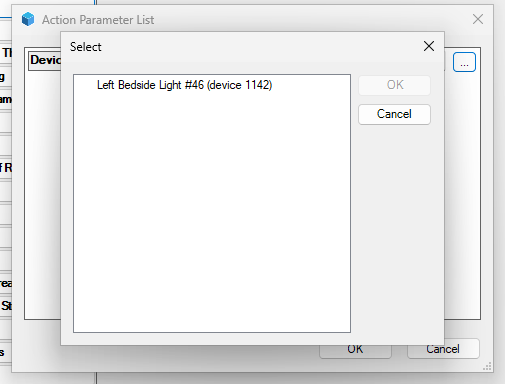
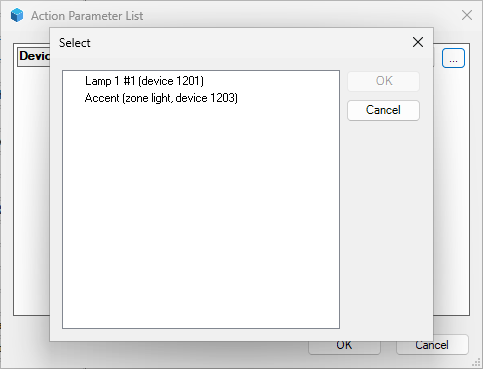
Manual: 21 pictures retaken on release build 329, two new for zone lights, captions and widths to match (#61)
Taken by the Windows session with tools/composer/Shots.ps1 (round 46b) in
the house project with neutral example texts painted in, each checked by
the coordinator. Captions that described older pictures now describe these;
the dialogs' widths are their own 483 px; Add Zone Light and a zone light's
Properties page are placed in chapter 7. bridge-properties, room-mappings
and connections stay the older pictures (held or failed, reasons in
docs/screenshots-plan.md §11). Shots.ps1 gains the Windows session's fixes
(native menu bar, real title and status zones, Enter after an edit, one
font per list).

Changed region(s): [[0.0, 0.0, 1.0, 1.0], [0.7453, 0.2087, 0.8075, 0.2385]]

diff --git a/src/hue_bridge/www/documentation.html b/src/hue_bridge/www/documentation.html
@@ -129,7 +129,7 @@ dd { margin: 2px 0 6px 18px; }
 <li>Do <b>not</b> add a Hue Light or a Hue Scene from the Items pane. The bridge creates them, already connected and linked, when you use its actions. The two drivers only need to be in the project's driver list, which step 2 did.</li>
 </ol>
 
-<img src="img/add-driver-menu.png" width="320" alt="Composer's Driver menu with Add or Update Driver or Agent highlighted">
+<img src="img/add-driver-menu.png" width="296" alt="Composer's Driver menu with Add or Update Driver or Agent highlighted">
 <p class="caption">Composer's <b>Driver</b> menu with <b>Add or Update Driver or Agent&hellip;</b> highlighted: the one route used both for installing and for updating.</p>
 
 <p class="note">(No screenshot of the System Design tree is included: it would show one home's device inventory. Yours shows the Hue Bridge in the room you added it to.)</p>
@@ -240,7 +240,7 @@ dd { margin: 2px 0 6px 18px; }
 </table>
 
 <img src="img/bridge-actions.png" width="700" alt="The Hue Bridge Actions tab">
-<p class="caption">The bridge's <b>Actions</b> tab: the actions in the order of chapter 13's quick reference, <b>Pair Bridge</b> at the top and <b>Forget Pairing</b> at the bottom. The picture was taken on a development build before <b>Add Zone Light</b> and <b>Re-link Zone Light</b> existed: it lacks those two and shows three diagnostics (<b>Connection Test</b>, <b>Reload Credentials</b>, <b>Check CA Pinning</b>) that a release build does not have, so a release build shows 22 buttons, not 23. One click on a button runs it. Actions with choices open a dialog; the rest run at once and report in <b>Last Action</b> or <b>Status</b>.</p>
+<p class="caption">The bridge's <b>Actions</b> tab: the actions in the order of chapter 13's quick reference, <b>Pair Bridge</b> at the top and <b>Forget Pairing</b> at the bottom, 22 buttons in all. One click on a button runs it. Actions with choices open a dialog; the rest run at once and report in <b>Last Action</b> or <b>Status</b>.</p>
 
 <p>Actions that take choices open Composer's <b>Action Parameter List</b> dialog: one row per choice, each with a <b>&hellip;</b> button that opens a <b>Select</b> list, and <b>OK</b> and <b>Cancel</b>. In the Select list, click an entry and then its OK. A row left empty reaches the driver empty: an empty <b>Room</b> in <b>Add Light</b>, <b>Add Zone Light</b> or <b>Add Scene</b> means <code>(mapped room)</code>; any other empty row, <b>Set Room Mapping</b>'s <b>Room</b> included, is refused with a <code>Not &hellip;: pick &hellip;</code> text in <b>Last Action</b> (for example <code>Not added: pick a light first</code> or <code>Not re-linked: pick a device and a light</code>; chapter 12 lists them all). The dialog remembers your previous choices for that action, so always look at every row before clicking OK; a remembered choice is as good as a new one to the driver.</p>
 
@@ -278,10 +278,10 @@ dd { margin: 2px 0 6px 18px; }
 <li><b>Room</b>: <code>(no mapping)</code> first, then every Control4 room as <code>Floor / Room</code>, for example <code>Main Floor / Den</code>. Where two rooms share a name the room's number is appended so you can tell them apart.</li>
 </ul>
 
-<img src="img/set-room-mapping.png" width="505" alt="Set Room Mapping dialog with the Hue Room list open">
+<img src="img/set-room-mapping.png" width="483" alt="Set Room Mapping dialog with the Hue Room list open">
 <p class="caption">The <b>Set Room Mapping</b> dialog with the <b>Hue Room</b> list open: rooms first, zones after them, each with its current mapping after the arrow.</p>
 
-<img src="img/set-room-mapping-room.png" width="505" alt="Set Room Mapping dialog with the Room list open">
+<img src="img/set-room-mapping-room.png" width="483" alt="Set Room Mapping dialog with the Room list open">
 <p class="caption">The same dialog with the <b>Room</b> list open: <code>(no mapping)</code> at the top, then the project's rooms as <code>Floor / Room</code>.</p>
 
 <p>Example: pick <code>Garden &rarr; (unmapped)</code> and <code>Main Floor / Den</code>, click OK. <b>Last Action</b> reads <code>Mapped Garden &rarr; Den</code> and <b>Room Mappings</b> updates. To remove a mapping, pick the Hue room and <code>(no mapping)</code>: <code>Removed the mapping for Accent (zone)</code>, or <code>No mapping for TV Area (zone) to remove</code> when there was none. If you click OK without choosing, Last Action says <code>Not mapped: pick a Hue room first</code> or <code>Not mapped: pick a Control4 room or (no mapping)</code>; a room deleted since the list was built gives <code>Not mapped: Control4 room 31 does not exist</code>. Before the bridge has been read, the Hue Room list holds only <code>(no Hue rooms fetched yet; connect the event stream)</code>.</p>
@@ -298,7 +298,7 @@ dd { margin: 2px 0 6px 18px; }
 <p>If you move a light to another Hue room in the Hue app, its <b>Hue Room</b> property follows within seconds; the Control4 device stays where it is, and the next Room Audit lists it until you drag it or decide not to.</p>
 
 <img src="img/room-audit.png" width="647" alt="Last Action after Room Audit">
-<p class="caption"><b>Last Action</b> after a <b>Room Audit</b> with nothing to drag: every checked light is in the room its Hue room maps to (an older build's wording; today it reads <code>All 1 linked light in a mapped Hue room is in the room its Hue room maps to</code>). With differences the row holds one line per light, each ending in the room to drag it to; the driver only reports, you drag.</p>
+<p class="caption"><b>Last Action</b> after a <b>Room Audit</b> with nothing to drag: every checked light is in the room its Hue room maps to. With differences the row holds one line per light, each ending in the room to drag it to; the driver only reports, you drag.</p>
 
 <div class="note"><b>Why the driver never moves a device.</b> Control4 gives drivers no way to move a device between rooms, and a move would also be the kind of surprise this driver avoids: you may well want a Hue light that Hue files under "Kitchen" to live in the Control4 room "Den". The audit is there so you can decide, light by light.</div>
 
@@ -319,10 +319,10 @@ dd { margin: 2px 0 6px 18px; }
 <li><b>Room</b>: <code>(mapped room)</code> first, then every Control4 room as <code>Floor / Room</code>, for example <code>Main Floor / Kitchen</code>. Pick <code>(mapped room)</code>, like any other entry, to use the <b>Room Mappings</b> entry of the light's Hue room; pick a room to put the light there regardless of the mapping.</li>
 </ul>
 
-<img src="img/add-light.png" width="505" alt="Add Light dialog with the Light list open">
+<img src="img/add-light.png" width="483" alt="Add Light dialog with the Light list open">
 <p class="caption">The <b>Add Light</b> dialog with the <b>Light</b> list open: each entry is <code>Name [Hue room] #number</code>; lights deleted from Composer are listed last with the date. The row's inner <b>OK</b> is greyed out until an entry is clicked.</p>
 
-<img src="img/add-light-room.png" width="505" alt="Add Light dialog with the Room list open">
+<img src="img/add-light-room.png" width="483" alt="Add Light dialog with the Room list open">
 <p class="caption">The same dialog with the <b>Room</b> list open: <code>(mapped room)</code> first, then <code>Floor / Room</code> rows.</p>
 
 <p>Click OK. <b>Last Action</b> reads <code>Added Lamp 1 #1 to Living Room (device 1201)</code> and the device appears in that room in the System Design tree within a second. If you pick <code>(mapped room)</code> for a light that has no mapped room then nothing is created and Last Action explains which case it is: <code>Not added: Lamp 6 #6: Hue room Garden not mapped; pick a room, or Set Room Mapping first</code>, <code>Not added: Lamp 7 #7: no Hue room; pick a room, or Set Room Mapping first</code> or <code>Not added: Lamp 6 #6: Hue room Garden mapped to a Control4 room that no longer exists; pick a room, or Set Room Mapping first</code>; pick a room explicitly, or fix the mapping first. A light that already has a device is refused with <code>Not added: Lamp 1 #1 is already imported (device 1201)</code>; an empty choice with <code>Not added: pick a light first</code>; a room deleted since the list was built with <code>Not added: Control4 room 31 no longer exists</code>; a light that left the bridge since the list was built with <code>Not added: light &hellip; is not on the bridge (connect the event stream and try again)</code>.</p>
@@ -352,8 +352,12 @@ dd { margin: 2px 0 6px 18px; }
 <li><b>Group</b>: every zone on the bridge that has no device yet, then every such room, each with the number of lights it holds: <code>Accent (zone, 2 lights)</code>, <code>Living Room (room, 2 lights)</code>. A zone or room whose device you deleted in Composer comes after the others, its entry ending in <code>(deleted from Composer 2026-10-24)</code>; one that holds no lights reads <code>Reading Corner (zone, no lights)</code> and is refused. When every zone and room has a device the list holds only <code>(every zone and room on the bridge is imported)</code>; with no zone or room on the bridge at all, <code>(no zones or rooms on the bridge)</code>. Hue's whole-home group ("all lights") is not offered (chapter 2).</li>
 <li><b>Room</b>: <code>(mapped room)</code> first, then every Control4 room as <code>Floor / Room</code>, exactly as in <b>Add Light</b> (pictured above). <code>(mapped room)</code> uses the <b>Room Mappings</b> entry of that zone or room itself: a Hue room is usually mapped already by <b>Map Rooms By Name</b>; a zone is mapped only if you mapped it with <b>Set Room Mapping</b> (chapter 6).</li>
 </ul>
+<img src="img/add-zone-light.png" width="483" alt="Add Zone Light dialog with the Group list open">
+<p class="caption">The <b>Add Zone Light</b> dialog with the <b>Group</b> list open: the zones first, then the rooms, each with the number of lights it holds.</p>
 <p>Click OK. <b>Last Action</b> reads <code>Added Accent (zone) to Living Room (device 1203)</code> (a room reads, for example, <code>Kitchen (room)</code> in these texts) and the device appears in that room in the System Design tree within a second; choose <b>File</b> &raquo; <b>Refresh Navigators</b> afterwards. If you pick <code>(mapped room)</code> for a zone that is not mapped then nothing is created: <code>Not added: TV Area (zone): Hue room TV Area (zone) not mapped; pick a room, or Set Room Mapping first</code>; pick the room in the dialog, or map the zone first. A zone or room mapped to a Control4 room that has since been deleted is refused as a light would be (<code>mapped to a Control4 room that no longer exists</code>). A zone without lights answers <code>Not added: Reading Corner (zone) has no lights</code>; a remembered choice that already has a device, <code>Not added: Accent (zone) is already imported (device 1203)</code>. The dialog remembers your last choices, as every dialog does: open both lists each time.</p>
 <p><b>Names and properties.</b> A zone light takes the zone's name as it is, <code>Accent</code>. A room light is named <code>Living Room Lights</code>, the room's name with <code>Lights</code> added, so that the Living Room's Lighting page does not list a light called "Living Room". As with lights the name is set once and is then yours; <b>Attention</b> and <b>Adopt Hue Name</b> apply the same rule, so a room light called <code>Living Room Lights</code> is never reported as differing from its Hue name. The device's <b>Status</b> reads <code>Hue zone Accent (2 lights)</code> or <code>Hue room Living Room (2 lights)</code>; its <b>Hue Light ID</b> <code>zone #1 (5e6f7a8b&hellip;)</code>, the zone's number on the bridge and the start of its Hue identity; <b>Hue Name</b> the zone's or room's name; <b>Model</b> <code>Hue zone (2 lights)</code>; <b>Hue Room</b> the zone's own label, <code>Accent (zone)</code>, or the room's name; <b>Online</b> <code>Online</code>. Composer shows the device's driver as Hue Light, with the Hue Light icon.</p>
+<img src="img/zone-light-properties.png" width="700" alt="A zone light's Properties page">
+<p class="caption">The Properties page of a zone light for the zone Accent: <b>Status</b> <code>Hue zone Accent (2 lights)</code>, <b>Hue Light ID</b> <code>zone #1 (5e6f7a8b&hellip;)</code>, <b>Model</b> <code>Hue zone (2 lights)</code> and <b>Hue Room</b> <code>Accent (zone)</code>.</p>
 <p><b>What the tile does.</b> The zone light is on while any lamp of the zone is lit, and its slider shows the brightness of the lit lamps as Hue reports it, their average in whole percents; 0 % while all are off.</p>
 <ul>
 <li><b>ON</b> ("Turn On" in programming, a tap on the tile, a tap on the top keypad button while the On preset is at its default) turns every lamp on at 100 %, exactly as on a Hue Light (chapter 11); the lamps' own last levels are not restored (the Hue app does that).</li>
@@ -397,10 +401,10 @@ dd { margin: 2px 0 6px 18px; }
 <li>Click OK. <b>Last Action</b> reads <code>Re-linked device 1213 (was Lamp 5 #5) to Lamp 5 [Bedroom] #9</code>. The device keeps its name, room, connections and programming; its Status, Hue Light ID and capabilities now describe the new light and its tile works again. If the new light is named differently in Hue, <b>Attention</b> mentions the name difference (8.2). If the new light can do less than the old one (a white light in place of a colour one) the colour controls disappear from the tile, and programming that sets a colour on it does nothing.</li>
 </ol>
 
-<img src="img/relink-device.png" width="505" alt="Re-link Device To Light dialog with the Device list open">
+<img src="img/relink-device.png" width="483" alt="Re-link Device To Light dialog with the Device list open">
 <p class="caption">The <b>Re-link Device To Light</b> dialog with its <b>Device</b> list open. With a gone device in the project the list reads <code>Name (device number, gone since date)</code>; here there is none, so it holds only <code>(no gone or unbound devices)</code>.</p>
 
-<img src="img/relink-device-light.png" width="505" alt="Re-link Device To Light dialog with the Light list open">
+<img src="img/relink-device-light.png" width="483" alt="Re-link Device To Light dialog with the Light list open">
 <p class="caption">The same dialog with its <b>Light</b> list open: every light that has no device at the moment, likely replacements first with their <code>(looks like &hellip;; re-link?)</code> hint, lights whose device was deleted from Composer last, marked with the date.</p>
 
 <p>If the light comes back under its old identity (for example you restored a Hue backup) then the driver notices and the device is simply linked again; you do nothing. If the light is gone for good and you do not want the device either, use <b>Forget Light</b> (8.5) and then delete the device in Composer. A gone device is never dropped by the driver itself. Refusals: <code>Not re-linked: pick a device and a light</code> (an empty row), <code>Not re-linked: Lamp 5 #9 is already linked to device 1217</code> (the light you picked already has a device), <code>Not re-linked: device 1213 is already linked to Lamp 5 #9</code> (the device you picked was re-linked meanwhile, usually a remembered choice; open the Device list again), <code>Not re-linked: device 1213 is not a registered light</code> (the device is not one the bridge manages) and <code>Not re-linked: light &hellip; is not on the bridge (connect the event stream and try again)</code> (the list was stale). The <b>Device</b> list says <code>(no gone or unbound devices)</code> when there is nothing to re-link.</p>
@@ -417,7 +421,7 @@ dd { margin: 2px 0 6px 18px; }
 <p><b>Forget Light</b> is the deliberate way to release a device from its Hue light without deleting anything. Its <b>Device</b> list holds every managed device as <code>Lamp 1 #1 (device 1201)</code>; a device that is not in its normal state carries its state after the bracket, <code>Lamp 5 #5 (device 1213) gone</code> or <code>Lamp 4 #4 (device 1211) unbound</code>. On OK, <b>Last Action</b> reads <code>Forgot Lamp 1 #1 (device 1201): unbound and left in the project for you to delete; the Hue light is listed under Add Light again</code>. The device stays in the project with <b>Status</b> <code>Forgotten by the bridge (was Hue light Lamp 1 #1). Delete this device in Composer, or bind it again and use Link Devices</code>, its connection to the bridge removed and its tile disabled; delete it in Composer when you are ready. The Hue light is available in <b>Add Light</b> and counted as new again. The same can be started from the device itself with its <b>Forget This Light</b> action. An empty choice answers <code>Not forgotten: pick a device first</code>.</p>
 <p>Which to use: delete the device without Forget when you want the light gone from Control4 for good (a bulk import will not bring it back); Forget and then delete when you want to import the light afresh, for example into another room; Re-link when you are replacing the light and want to keep the device.</p>
 
-<img src="img/forget-light.png" width="505" alt="Forget Light dialog with its Device list open">
+<img src="img/forget-light.png" width="483" alt="Forget Light dialog with its Device list open">
 <p class="caption">The <b>Forget Light</b> dialog: every managed device as <code>Name #number (device number)</code>; a gone or unbound device carries that word at the end of its entry. Zone and room lights follow as <code>Name (zone light, device number)</code> (the picture predates them).</p>
 
 <h3>8.6 Link Devices and the bare "Hue Light"</h3>
@@ -497,8 +501,8 @@ dd { margin: 2px 0 6px 18px; }
 <li><b>Room</b>: <code>(mapped room)</code> first, then <code>Floor / Room</code>, as in <b>Add Light</b>. Pick <code>(mapped room)</code>, like any other entry, to use the <b>Room Mappings</b> entry of the scene's Hue room or zone.</li>
 </ul>
 
-<img src="img/add-scene.png" width="505" alt="Add Scene dialog with the Scene list open">
-<p class="caption">The <b>Add Scene</b> dialog with the <b>Scene</b> list open: each entry is <code>Room: Scene</code>, zones marked <code>(zone)</code>. The picture predates time-of-day scenes: today each room's or zone's time-of-day scenes come first, marked <code>(time-based)</code>, scenes a schedule plays carry <code>(in &hellip;)</code>, and a scene Hue plays as changing colours ends in <code>(dynamic)</code>.</p>
+<img src="img/add-scene.png" width="483" alt="Add Scene dialog with the Scene list open">
+<p class="caption">The <b>Add Scene</b> dialog with the <b>Scene</b> list open: each entry is <code>Room: Scene</code>, zones marked <code>(zone)</code>. A room's or zone's time-of-day scenes come first, marked <code>(time-based)</code>, scenes a schedule plays carry <code>(in &hellip;)</code>, and a scene Hue plays as changing colours ends in <code>(dynamic)</code>.</p>
 
 <p>Click OK. <b>Last Action</b> reads <code>Added Nightlight to Living Room (device 1225)</code>. If you pick <code>(mapped room)</code> for a scene whose Hue room or zone is unmapped then nothing is created: <code>Not added: Nightlight: Hue room TV Area (zone) not mapped; pick a room, or Set Room Mapping first</code>; a whole-home scene has no room to map, so with <code>(mapped room)</code> it answers <code>Not added: Bright: not in a Hue room; pick a room, or Set Room Mapping first</code>, and a scene of a room mapped to a deleted Control4 room <code>Not added: Relax: Hue room Kitchen mapped to a Control4 room that no longer exists; pick a room, or Set Room Mapping first</code>: pick a room explicitly. Other refusals: <code>Not added: pick a scene first</code>, <code>Not added: Relax is already imported (device 1205)</code>, <code>Not added: scene &hellip; is not on the bridge (Refresh Scenes and try again)</code>, <code>Not added: Control4 room 31 no longer exists</code>. The dialog remembers your last choices, so re-open both lists each time.</p>
 
@@ -507,7 +511,7 @@ dd { margin: 2px 0 6px 18px; }
 <h3>9.3 Add All Scenes Of Room</h3>
 <p><b>Add All Scenes Of Room</b> creates a device for every scene of one Hue room or zone that has none yet, into the room it maps to. Its one row, <b>Hue Room</b>, lists every Hue room and zone that has scenes, with its mapping and counts: <code>Kitchen &rarr; Kitchen (7 scenes)</code>, <code>Living Room &rarr; Living Room (7 scenes, 1 imported)</code>, <code>Garden &rarr; (unmapped) (7 scenes)</code>; a room or zone with time-of-day scenes lists them separately: <code>Bedroom &rarr; Bedroom (8 scenes, 1 time-based)</code> means 8 ordinary scenes and 1 time-of-day one (an <code>imported</code> count covers both kinds), and the action creates them after its ordinary scenes (9.11). The Hue room must be mapped: an unmapped one is refused with <code>Not added: Hue room Garden not mapped; Set Room Mapping first</code>, and one mapped to a deleted Control4 room with <code>Not added: Hue room Garden mapped to a Control4 room that no longer exists; Set Room Mapping first</code>. An empty row answers <code>Not added: pick a Hue room first</code>; a remembered choice whose room has lost its scenes or has left the bridge since, <code>Not added: Garden has no scenes</code> or <code>Not added: Hue room &hellip; is not on the bridge (connect the event stream and try again)</code>; open the list again.</p>
 
-<img src="img/add-all-scenes.png" width="505" alt="Add All Scenes Of Room dialog with the Hue Room list open">
+<img src="img/add-all-scenes.png" width="483" alt="Add All Scenes Of Room dialog with the Hue Room list open">
 <p class="caption">The <b>Add All Scenes Of Room</b> dialog: each Hue room or zone with its mapping after the arrow and, in brackets, how many of its scenes exist and how many are imported.</p>
 
 <p><b>Last Action</b> reads <code>Added 6 scenes of Living Room to Living Room: Bright (device 1227), Concentrate (device 1229), Dimmed (device 1231), Energize (device 1233), Nightlight (device 1235), Read (device 1237)</code>; on a second run <code>No new scenes in Living Room (7 on bridge, 7 imported)</code>, or for a room with time-of-day scenes <code>No new scenes in Bedroom (8 scenes and 1 time-based on bridge, 9 imported)</code>. Scene devices you deleted in Composer are skipped and listed: <code>Added no scenes; skipped 1 deleted in Composer (Add Scene re-creates one): Energize (deleted 2026-10-21)</code>. While it runs, the other scene actions answer <code>Busy: adding scenes; try again in a moment</code>, and during a full read of the scenes <code>Busy: resyncing scenes; try again in a moment</code>. After adding scenes, choose <b>File</b> &raquo; <b>Refresh Navigators</b>.</p>
@@ -535,7 +539,7 @@ dd { margin: 2px 0 6px 18px; }
 </ul>
 
 <img src="img/scene-properties.png" width="700" alt="A Hue Scene device's Properties page">
-<p class="caption">The Properties page of a Hue Scene device (<code>Bedside Lights Nightlight</code>). <b>Recall As</b> is the one row you may change; <b>Status</b> names the scene and its zone, <code>in Bedside Lights (zone)</code>.</p>
+<p class="caption">The Properties page of a Hue Scene device for the scene Relax of the Living Room. <b>Recall As</b> is the one row you may change; <b>Status</b> names the scene and its room, <code>Hue scene Relax in Living Room</code>.</p>
 
 <img src="img/recall-as.png" width="647" alt="The Recall As row with its list open">
 <p class="caption">The <b>Recall As</b> row with its three choices: <code>As set in Hue</code>, <code>Static</code>, <code>Dynamic</code>. Click <b>Set</b> after choosing, or the change never reaches the driver.</p>
@@ -544,7 +548,7 @@ dd { margin: 2px 0 6px 18px; }
 <p><b>Adopt Hue Name</b> renames the device to the name the bridge would give it today (the scene's name, with the zone's name in front for a zone scene and without the Hue app's number for a time-of-day scene): <code>Renamed device 1216 to Accent Read</code>; while unlinked, <code>Not renamed: no Hue name known yet (the bridge has not configured this scene)</code>. <b>Forget This Scene</b> asks the bridge to release the device, exactly like a light's Forget This Light; its Last Action reads <code>Asked the bridge to forget this scene; its answer sets Status</code>, or <code>Not sent: not bound to a Hue Bridge</code> when there is no bridge to ask.</p>
 
 <img src="img/scene-actions.png" width="700" alt="A Hue Scene device's Actions tab">
-<p class="caption">A Hue Scene device's <b>Actions</b> tab (an older build; since build 130 <b>Adopt Hue Name</b> is above <b>Forget This Scene</b>, as on a Hue Light).</p>
+<p class="caption">A Hue Scene device's <b>Actions</b> tab: <b>Adopt Hue Name</b> above <b>Forget This Scene</b>, as on a Hue Light.</p>
 
 <h3>9.7 Re-link Scene, Forget Scene, Refresh Scenes</h3>
 <ul>
@@ -606,7 +610,7 @@ dd { margin: 2px 0 6px 18px; }
 </table>
 
 <img src="img/light-properties.png" width="700" alt="A Hue Light device's Properties page">
-<p class="caption">The Properties page of a Hue Light (<code>Left Bedside Light</code>): <b>Status</b>, <b>Hue Light ID</b>, <b>Hue Name</b>, <b>Model</b>, <b>Online</b> and <b>Hue Room</b> are filled in by the bridge; <b>Debug Mode</b> is the only one of these rows you could change. The picture predates the keypad settings, which Composer now also lists for the device (chapter 11).</p>
+<p class="caption">The Properties page of a Hue Light (<code>Lamp 1</code>): <b>Status</b>, <b>Hue Light ID</b>, <b>Hue Name</b>, <b>Model</b>, <b>Online</b> and <b>Hue Room</b> are filled in by the bridge; <b>Debug Mode</b> is the only one of these rows you could change. Composer lists the keypad settings for the device on its own settings page (chapter 11).</p>
 
 <p><b>Actions.</b> <b>Adopt Hue Name</b> renames this device in Composer to its Hue name (<code>Renamed device 1202 to Lamp 1</code>; <code>Not renamed: no Hue name known yet (the bridge has not configured this light)</code> while unlinked). <b>Forget This Light</b> asks the bridge to release this device (<code>Asked the bridge to forget this light; its answer sets Status</code>; <code>Not sent: not bound to a Hue Bridge</code> when there is no bridge to ask); see 8.5.</p>
 

diff --git a/docs/screenshots-plan.md b/docs/screenshots-plan.md
@@ -765,3 +765,31 @@ texts to `Keep` on its side reports them so that they can be added here.
  ]
 }
 ```
+
+## 11. Round 46b, 2026-10-25 10:40 (release build 329, 1512 x 949)
+
+21 pictures went to `doc\`, were checked by the coordinator (every text, the
+edges, no house names, addresses, bridge ids or resource ids; no PNG text
+metadata) and are in `src/hue_bridge/www/img/`, with the captions and widths
+of the manual adjusted and `add-zone-light.png` and
+`zone-light-properties.png` placed in chapter 7. Three remain the older
+pictures:
+
+- `bridge-properties.png` (held): Room Audit's own text (75 characters)
+  wraps onto Last Action (2), which the row's check refuses, and the four
+  combo faces painted smeared.
+- `room-mappings.png` (error): the open list drops so low that the crop
+  would show the status bar beside it; scroll the row higher first, or crop
+  the combo and its list only.
+- `connections.png` (error): A3 failed three ways (the view selects the
+  project root, not the device; the header reads "Control  Audio Video
+  Connections"; that element is only the header strip).
+
+Assumptions: A1 failed (Composer's menu bar is a native HMENU, invisible to
+UI Automation) and is fixed in `Shots.ps1` (EnumWindows, MN_GETHMENU, items
+as regions); A2 held; A3 failed (above); A4 partly (one font per list now);
+A5 and A6 held. Also fixed: the title and status zones measured from the
+real bars, Enter after editing a value (Composer shows Set only after
+Enter), the font and score in each ledger. Seen: 1 to 3 px of the main
+window at dialog left edges; painted ID values a shade lighter than their
+neighbours.
